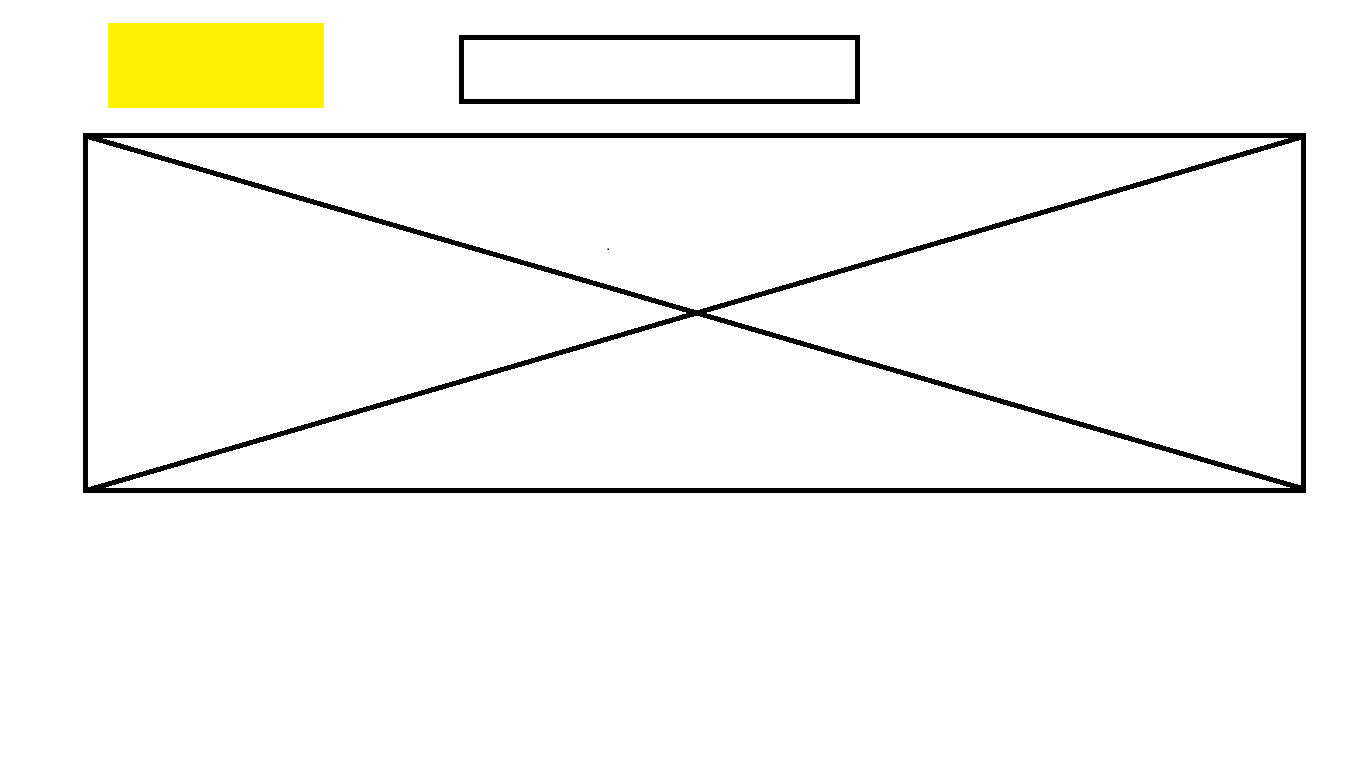
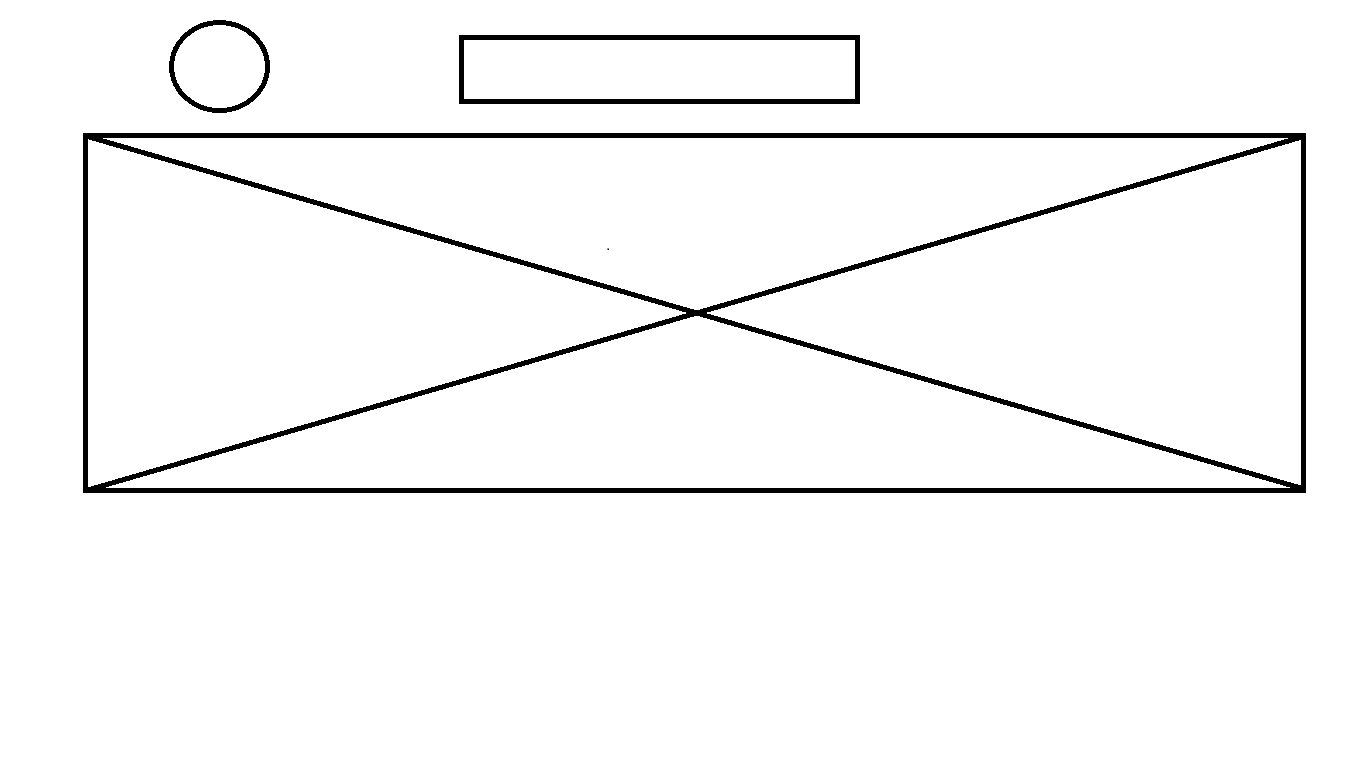
changes

Changed region(s): [[0.0615, 0.0, 0.246, 0.1562]]

diff --git a/python_scripts/image-to-code/codify-python/code/index.html b/python_scripts/image-to-code/codify-python/code/index.html
@@ -8,6 +8,6 @@
     <title>Document</title>
 </head>
 <body style="position : relative">
-    <div style='height:70.0px;width:402.0px; background-color: blue; position : fixed; left : 458.0px; top : 34.0px;'></div><div style='height:58.0px;width:390.0px; background-color: blue; position : fixed; left : 464.0px; top : 40.0px;'></div><img src='a.jpg' style='height:361.0px;width:1224.0px; background-size:cover; position : fixed; left : 82.0px; top : 132.0px;' /><div style='height:2.0px;width:2.0px; background-color: blue; position : fixed; left : 607.0px; top : 248.0px;'></div> 
+    <button style='height:8px;width:8px;border-radius:4px;background-color:green;position:fixed;left:524px;top:510px;'></button><button style='height:38px;width:38px;border-radius:19px;background-color:green;position:fixed;left:113px;top:422px;'></button><button style='height:50px;width:50px;border-radius:25px;background-color:green;position:fixed;left:107px;top:416px;'></button><button style='height:20px;width:20px;border-radius:10px;background-color:green;position:fixed;left:331px;top:364px;'></button><div style='height:62.0px;width:515.0px; background-color: blue; position : fixed; left : 782.0px; top : 5.0px;'></div><img src='a.jpg' style='height:53.0px;width:59.0px; background-size:cover; position : fixed; left : 22.0px; top : 9.0px;' /><div style='height:50.0px;width:503.0px; background-color: blue; position : fixed; left : 788.0px; top : 11.0px;'></div><img src='a.jpg' style='height:196.0px;width:1283.0px; background-size:cover; position : fixed; left : 20.0px; top : 70.0px;' /><div style='height:48.0px;width:66.0px; background-color: blue; position : fixed; left : 22.0px; top : 283.0px;'></div><div style='height:36.0px;width:54.0px; background-color: blue; position : fixed; left : 28.0px; top : 289.0px;'></div><div style='height:58.0px;width:781.0px; background-color: blue; position : fixed; left : 19.0px; top : 344.0px;'></div><div style='height:46.0px;width:769.0px; background-color: blue; position : fixed; left : 25.0px; top : 350.0px;'></div><div style='height:47.0px;width:51.0px; background-color: blue; position : fixed; left : 21.0px; top : 414.0px;'></div><div style='height:35.0px;width:39.0px; background-color: blue; position : fixed; left : 27.0px; top : 420.0px;'></div><div style='height:40.0px;width:57.0px; background-color: blue; position : fixed; left : 778.0px; top : 458.0px;'></div><div style='height:28.0px;width:45.0px; background-color: blue; position : fixed; left : 784.0px; top : 464.0px;'></div><div style='height:35.0px;width:60.0px; background-color: blue; position : fixed; left : 461.0px; top : 469.0px;'></div><div style='height:23.0px;width:48.0px; background-color: blue; position : fixed; left : 467.0px; top : 475.0px;'></div><img src='a.jpg' style='height:77.0px;width:52.0px; background-size:cover; position : fixed; left : 20.0px; top : 475.0px;' /><div style='height:31.0px;width:62.0px; background-color: blue; position : fixed; left : 140.0px; top : 478.0px;'></div><div style='height:19.0px;width:50.0px; background-color: blue; position : fixed; left : 146.0px; top : 484.0px;'></div><div style='height:16.0px;width:104.0px; background-color: blue; position : fixed; left : 776.0px; top : 502.0px;'></div><div style='height:20.0px;width:112.0px; background-color: blue; position : fixed; left : 463.0px; top : 504.0px;'></div><div style='height:4.0px;width:51.0px; background-color: blue; position : fixed; left : 782.0px; top : 508.0px;'></div><div style='height:23.0px;width:108.0px; background-color: blue; position : fixed; left : 140.0px; top : 509.0px;'></div><div style='height:8.0px;width:100.0px; background-color: blue; position : fixed; left : 469.0px; top : 510.0px;'></div><div style='height:16.0px;width:103.0px; background-color: blue; position : fixed; left : 777.0px; top : 521.0px;'></div><div style='height:4.0px;width:48.0px; background-color: blue; position : fixed; left : 783.0px; top : 527.0px;'></div><div style='height:19.0px;width:114.0px; background-color: blue; position : fixed; left : 464.0px; top : 529.0px;'></div><div style='height:18.0px;width:107.0px; background-color: blue; position : fixed; left : 141.0px; top : 535.0px;'></div><div style='height:6.0px;width:57.0px; background-color: blue; position : fixed; left : 147.0px; top : 541.0px;'></div> 
 </body>
 </html>

diff --git a/python_scripts/image-to-code/codify-python/Script.py b/python_scripts/image-to-code/codify-python/Script.py
@@ -6,7 +6,7 @@ from shapely.geometry import Point, LineString, Polygon
 import matplotlib.pyplot as plt
 
 # Load the input image and convert it to grayscale
-input_img = cv2.imread("demo.png")
+input_img = cv2.imread("page.png")
 gray_img = cv2.cvtColor(input_img, cv2.COLOR_BGR2GRAY)
 
 # Apply a threshold to the grayscale image to get a binary image
@@ -18,29 +18,59 @@ contours, hierarchy = cv2.findContours(
 
 rectangles = []
 triangles = []
-rectangles_with_yellow_colour = []
+circle = []
+cross_inside_rec = []
+div_str = ""
 
-# Define the lower and upper bounds of the yellow color in BGR format
-# lower_yellow = np.array([0, 200, 200])
-# upper_yellow = np.array([100, 255, 255])
+def is_contour_inside_rect(contour, rect):
+    x,y,w,h = rect
+    rect_area = w*h
+    contour_area = cv2.contourArea(contour)
+    # Check if the contour area is less than the rectangle area
+    # and the bounding rectangle of the contour is inside the rectangle
+    if contour_area < rect_area and rect[0] <= x and rect[1] <= y and rect[0]+rect[2] >= x+w and rect[1]+rect[3] >= y+h:
+        return True
+    else:
+        return False
 
 for contour in contours:
-    approx = cv2.approxPolyDP(
-        contour, 0.01 * cv2.arcLength(contour, True), True)
+    approx = cv2.approxPolyDP(contour, 0.01 * cv2.arcLength(contour, True), True)
     if len(approx) == 4:  # Check if it's a rectangle
         # Get the coordinates of the four corners of the rectangle
         x1, y1 = approx[0][0]
         x2, y2 = approx[1][0]
         x3, y3 = approx[2][0]
         x4, y4 = approx[3][0]
-        # Check if the rectangle is yellow
-        if np.array_equal(input_img[y1][x1], [0, 255, 255]):
-            rectangles_with_yellow_colour.append(Polygon(approx.reshape((-1, 2))))
-        else:
-            rectangles.append(Polygon(approx.reshape((-1, 2))))
+        rectangles.append(Polygon(approx.reshape((-1, 2))))
     elif len(approx) == 3:  # Check if it's a triangle
         triangles.append(Polygon(approx.reshape((-1, 2))))
+    elif len(approx) >= 5 and len(approx) <= 20:  # Check if it's a circle
+        area = cv2.contourArea(contour)
+        perimeter = cv2.arcLength(contour, True)
+        circularity = 4 * np.pi * area / (perimeter ** 2)
+        if circularity > 0.7:  # Set a threshold for circularity
+            center, radius = cv2.minEnclosingCircle(contour)
+            circle.append((center, radius))
+            x, y = int(center[0]), int(center[1])
+            r = int(radius)
 
+            div_str += f"<button style='height:{2*r}px;width:{2*r}px;border-radius:{r}px;background-color:green;position:fixed;left:{x-r}px;top:{y-r}px;'></button>"
+    else:  # Check if contour is inside the rectangle
+        rect = cv2.minAreaRect(contour)
+        if is_contour_inside_rect(contour, rect):
+            # Compute the minimum area bounding box for the contour
+            (x, y), (w, h), angle = rect
+
+            # Check if the bounding box has a cross shape
+            aspect_ratio = max(w, h) / min(w, h)
+            if aspect_ratio < 1.5 and abs(angle) > 75 and abs(angle) < 105:
+                # The contour has a plus sign shape
+                # Do something with it (e.g., draw a blue circle at its center)
+                center = (int(x), int(y))
+                radius = 10
+                cv2.circle(input_img, center, radius, (255, 0, 0), -1)
+                cross_inside_rec.append(center)
+# print(cross_inside_rec)
 # Reverse the order of the rectangles and output as JSON-formatted string
 rectangles.pop(-1)
 
@@ -70,7 +100,6 @@ num_triangles = len(triangles)
 
 # Create a dictionary to map each rectangle to its index
 rect_dict = {i: rect for i, rect in enumerate(rectangles)}
-
 # Find the rectangles containing triangles
 tri_rectangles = []
 for i, rectangle in rect_dict.items():
@@ -81,7 +110,6 @@ for i, rectangle in rect_dict.items():
 
 # Replace rectangles containing triangles with images
 div_temp = "<div style='height:#h#px;width:#w#px; background-color: #color#; position : fixed; left : #x#px; top : #y#px;'></div>"
-div_str = ""
 for i, rect in rect_dict.items():
     left, top, right, bottom = rect.bounds
     if i in tri_rectangles:
